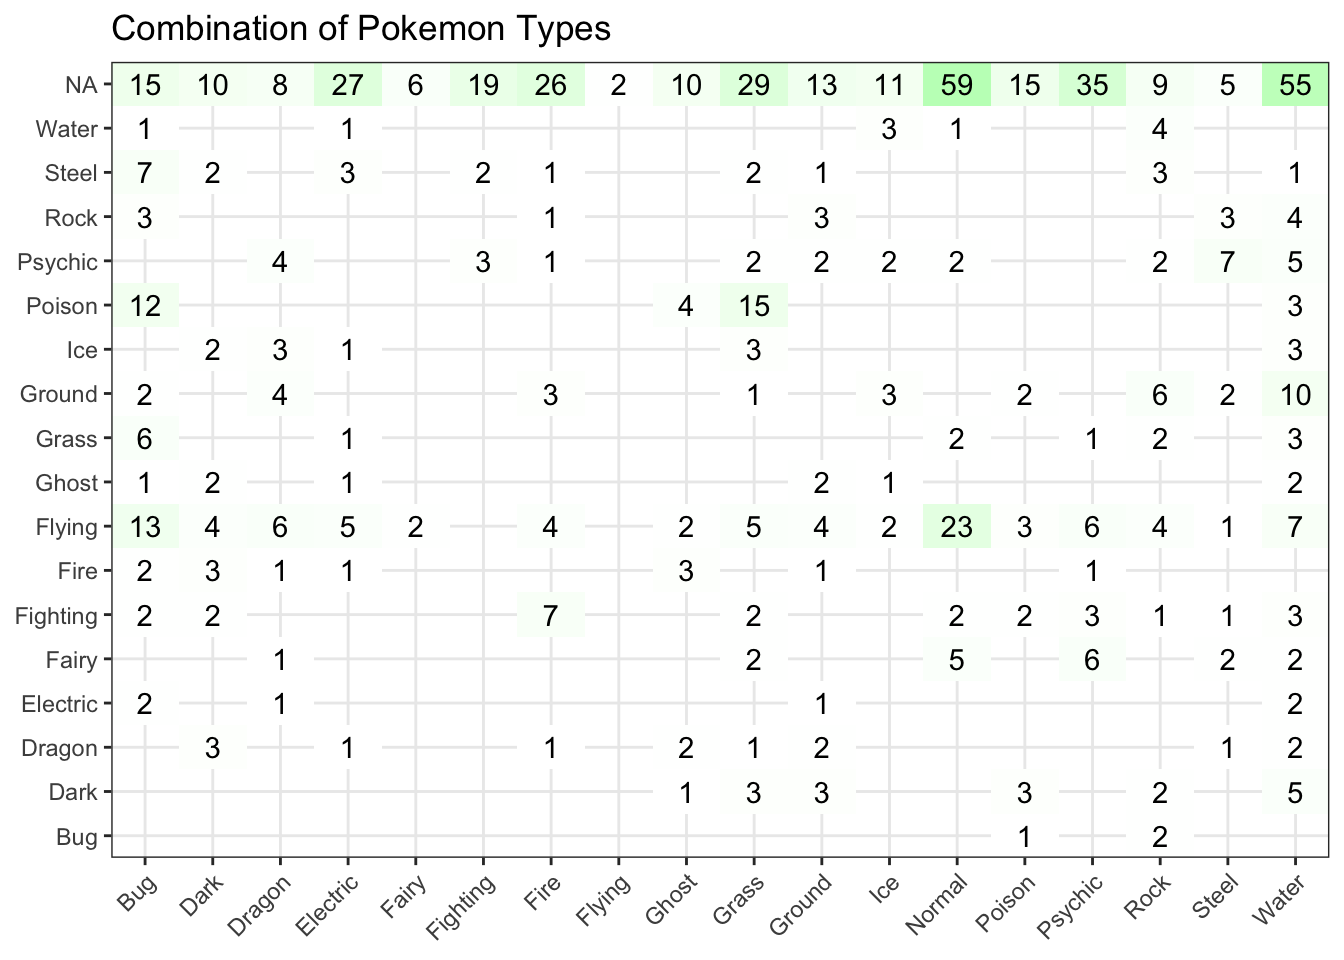
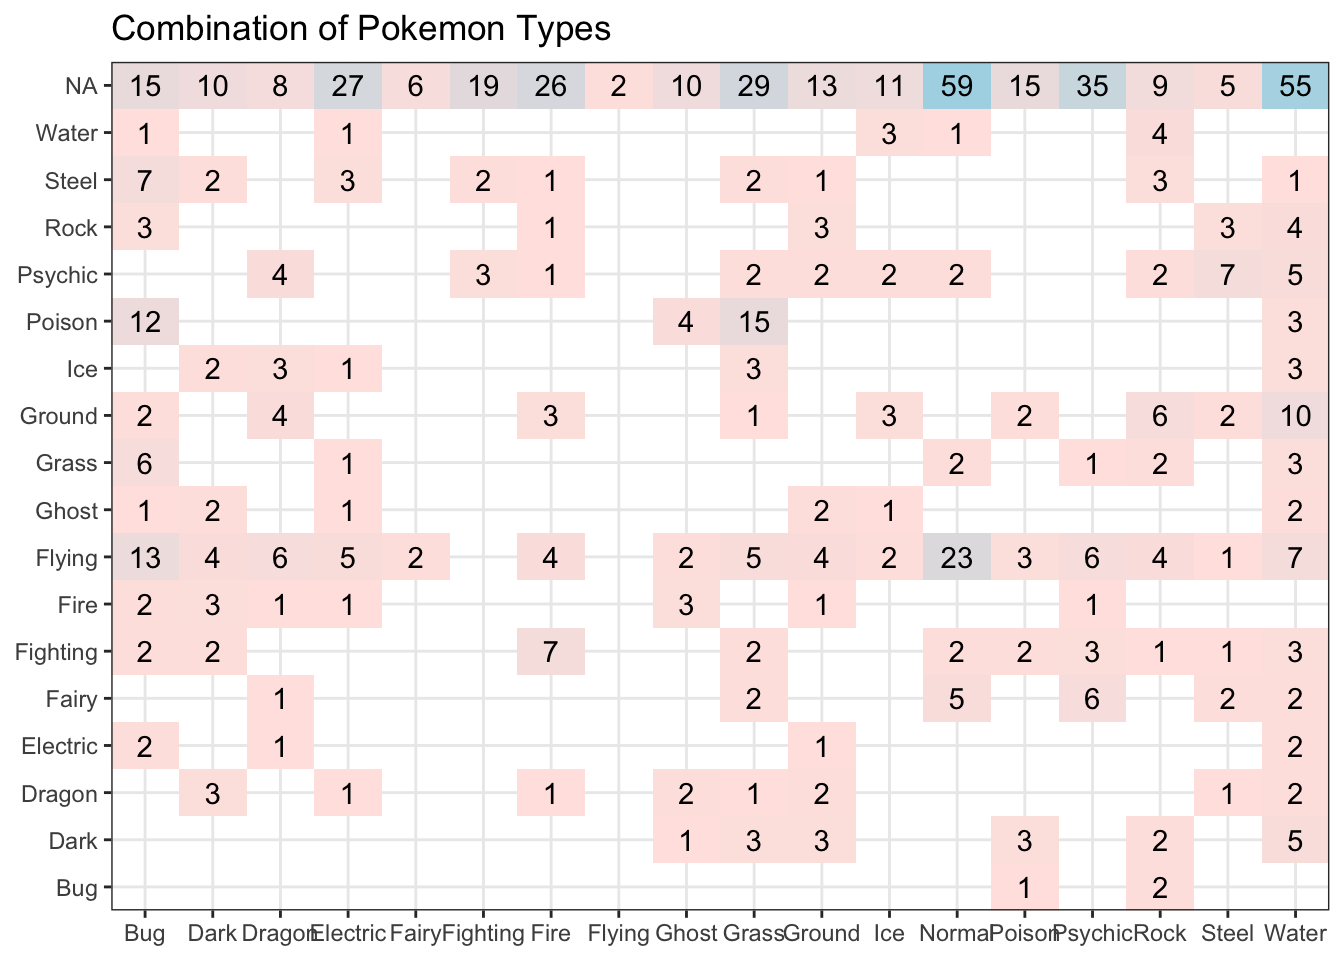
render

diff --git a/docs/project/pokemon/Pokemon.html b/docs/project/pokemon/Pokemon.html
@@ -219,8 +219,8 @@ pre > code.sourceCode > span > a:first-child::before { text-decoration: underlin
 <p>Bar chart for the count of type primary and secondary.</p>
 <div class="cell">
 <div class="sourceCode cell-code" id="cb4"><pre class="sourceCode r code-with-copy"><code class="sourceCode r"><span id="cb4-1"><a href="#cb4-1" aria-hidden="true" tabindex="-1"></a>poke_data <span class="sc">|&gt;</span></span>
-<span id="cb4-2"><a href="#cb4-2" aria-hidden="true" tabindex="-1"></a>    <span class="fu">count</span>(Type_1) <span class="sc">|&gt;</span></span>
-<span id="cb4-3"><a href="#cb4-3" aria-hidden="true" tabindex="-1"></a>    <span class="fu">ggplot</span>(<span class="fu">aes</span>(<span class="at">x=</span>Type_1, <span class="at">y=</span>n)) <span class="sc">+</span></span>
+<span id="cb4-2"><a href="#cb4-2" aria-hidden="true" tabindex="-1"></a>    <span class="fu">count</span>(Type<span class="fl">.1</span>) <span class="sc">|&gt;</span></span>
+<span id="cb4-3"><a href="#cb4-3" aria-hidden="true" tabindex="-1"></a>    <span class="fu">ggplot</span>(<span class="fu">aes</span>(<span class="at">x=</span>Type<span class="fl">.1</span>, <span class="at">y=</span>n)) <span class="sc">+</span></span>
 <span id="cb4-4"><a href="#cb4-4" aria-hidden="true" tabindex="-1"></a>    <span class="fu">geom_bar</span>(<span class="at">stat =</span> <span class="st">"identity"</span>, <span class="at">fill =</span> <span class="st">'lightblue'</span>) <span class="sc">+</span></span>
 <span id="cb4-5"><a href="#cb4-5" aria-hidden="true" tabindex="-1"></a>    <span class="fu">xlab</span>(<span class="st">"Primary Type"</span>) <span class="sc">+</span> </span>
 <span id="cb4-6"><a href="#cb4-6" aria-hidden="true" tabindex="-1"></a>    <span class="fu">ylab</span>(<span class="st">"Count"</span>) <span class="sc">+</span></span>
@@ -232,8 +232,8 @@ pre > code.sourceCode > span > a:first-child::before { text-decoration: underlin
 <p><img src="Pokemon_files/figure-html/unnamed-chunk-5-1.png" class="img-fluid" width="672"></p>
 </div>
 <div class="sourceCode cell-code" id="cb5"><pre class="sourceCode r code-with-copy"><code class="sourceCode r"><span id="cb5-1"><a href="#cb5-1" aria-hidden="true" tabindex="-1"></a>poke_data <span class="sc">|&gt;</span></span>
-<span id="cb5-2"><a href="#cb5-2" aria-hidden="true" tabindex="-1"></a>    <span class="fu">count</span>(Type_2) <span class="sc">|&gt;</span></span>
-<span id="cb5-3"><a href="#cb5-3" aria-hidden="true" tabindex="-1"></a>    <span class="fu">ggplot</span>(<span class="fu">aes</span>(<span class="at">x=</span>Type_2, <span class="at">y=</span>n)) <span class="sc">+</span></span>
+<span id="cb5-2"><a href="#cb5-2" aria-hidden="true" tabindex="-1"></a>    <span class="fu">count</span>(Type<span class="fl">.2</span>) <span class="sc">|&gt;</span></span>
+<span id="cb5-3"><a href="#cb5-3" aria-hidden="true" tabindex="-1"></a>    <span class="fu">ggplot</span>(<span class="fu">aes</span>(<span class="at">x=</span>Type<span class="fl">.2</span>, <span class="at">y=</span>n)) <span class="sc">+</span></span>
 <span id="cb5-4"><a href="#cb5-4" aria-hidden="true" tabindex="-1"></a>    <span class="fu">geom_bar</span>(<span class="at">stat =</span> <span class="st">"identity"</span>, <span class="at">fill =</span> <span class="st">'plum'</span>) <span class="sc">+</span></span>
 <span id="cb5-5"><a href="#cb5-5" aria-hidden="true" tabindex="-1"></a>    <span class="fu">xlab</span>(<span class="st">"Secondary Type"</span>) <span class="sc">+</span> </span>
 <span id="cb5-6"><a href="#cb5-6" aria-hidden="true" tabindex="-1"></a>    <span class="fu">ylab</span>(<span class="st">"Count"</span>) <span class="sc">+</span></span>
@@ -247,27 +247,26 @@ pre > code.sourceCode > span > a:first-child::before { text-decoration: underlin
 </div>
 <div class="cell">
 <div class="sourceCode cell-code" id="cb6"><pre class="sourceCode r code-with-copy"><code class="sourceCode r"><span id="cb6-1"><a href="#cb6-1" aria-hidden="true" tabindex="-1"></a>poke_data <span class="sc">|&gt;</span></span>
-<span id="cb6-2"><a href="#cb6-2" aria-hidden="true" tabindex="-1"></a>    <span class="fu">group_by</span>(Type_1, Type_2) <span class="sc">|&gt;</span></span>
+<span id="cb6-2"><a href="#cb6-2" aria-hidden="true" tabindex="-1"></a>    <span class="fu">group_by</span>(Type<span class="fl">.1</span>, Type<span class="fl">.2</span>) <span class="sc">|&gt;</span></span>
 <span id="cb6-3"><a href="#cb6-3" aria-hidden="true" tabindex="-1"></a>    <span class="fu">summarize</span>(<span class="at">count =</span> <span class="fu">n</span>()) <span class="sc">|&gt;</span></span>
-<span id="cb6-4"><a href="#cb6-4" aria-hidden="true" tabindex="-1"></a>    <span class="fu">ggplot</span>(<span class="fu">aes</span>(<span class="at">x =</span> Type_1, <span class="at">y =</span> Type_2, <span class="at">fill =</span> count))<span class="sc">+</span></span>
+<span id="cb6-4"><a href="#cb6-4" aria-hidden="true" tabindex="-1"></a>    <span class="fu">ggplot</span>(<span class="fu">aes</span>(<span class="at">x =</span> Type<span class="fl">.1</span>, <span class="at">y =</span> Type<span class="fl">.2</span>, <span class="at">fill =</span> count))<span class="sc">+</span></span>
 <span id="cb6-5"><a href="#cb6-5" aria-hidden="true" tabindex="-1"></a>    <span class="fu">geom_tile</span>(<span class="at">show.legend =</span> <span class="cn">FALSE</span>)<span class="sc">+</span></span>
 <span id="cb6-6"><a href="#cb6-6" aria-hidden="true" tabindex="-1"></a>    <span class="fu">geom_text</span>(<span class="fu">aes</span>(<span class="at">label =</span> count))<span class="sc">+</span></span>
 <span id="cb6-7"><a href="#cb6-7" aria-hidden="true" tabindex="-1"></a>    <span class="fu">labs</span>(<span class="at">x =</span> <span class="cn">NULL</span>, <span class="at">y =</span> <span class="cn">NULL</span>, <span class="at">title =</span> <span class="st">"Combination of Pokemon Types"</span>)<span class="sc">+</span></span>
-<span id="cb6-8"><a href="#cb6-8" aria-hidden="true" tabindex="-1"></a>    <span class="fu">scale_fill_gradient</span>(<span class="at">low =</span> <span class="st">'white'</span>, <span class="at">high =</span> <span class="st">'darkseagreen1'</span>)<span class="sc">+</span></span>
+<span id="cb6-8"><a href="#cb6-8" aria-hidden="true" tabindex="-1"></a>    <span class="fu">scale_fill_gradient</span>(<span class="at">low =</span> <span class="st">'mistyrose'</span>, <span class="at">high =</span> <span class="st">'lightblue'</span>)<span class="sc">+</span></span>
 <span id="cb6-9"><a href="#cb6-9" aria-hidden="true" tabindex="-1"></a>    <span class="fu">scale_y_discrete</span>(<span class="at">expand =</span> <span class="fu">c</span>(<span class="dv">0</span>,<span class="dv">0</span>))<span class="sc">+</span></span>
 <span id="cb6-10"><a href="#cb6-10" aria-hidden="true" tabindex="-1"></a>    <span class="fu">scale_x_discrete</span>(<span class="at">expand =</span> <span class="fu">c</span>(<span class="dv">0</span>,<span class="dv">0</span>))<span class="sc">+</span></span>
-<span id="cb6-11"><a href="#cb6-11" aria-hidden="true" tabindex="-1"></a>    <span class="fu">theme_bw</span>() <span class="sc">+</span></span>
-<span id="cb6-12"><a href="#cb6-12" aria-hidden="true" tabindex="-1"></a>    <span class="fu">theme</span>(<span class="at">axis.text.x=</span><span class="fu">element_text</span>(<span class="at">angle=</span><span class="dv">45</span>, <span class="at">hjust=</span><span class="dv">1</span>))</span></code><button title="Copy to Clipboard" class="code-copy-button"><i class="bi"></i></button></pre></div>
+<span id="cb6-11"><a href="#cb6-11" aria-hidden="true" tabindex="-1"></a>    <span class="fu">theme_bw</span>()</span></code><button title="Copy to Clipboard" class="code-copy-button"><i class="bi"></i></button></pre></div>
 <div class="cell-output-display">
 <p><img src="Pokemon_files/figure-html/unnamed-chunk-6-1.png" class="img-fluid" width="672"></p>
 </div>
 </div>
 <p>Box plot of the Primary Type showing the types with most Total points to lowest</p>
 <div class="cell">
-<div class="sourceCode cell-code" id="cb7"><pre class="sourceCode r code-with-copy"><code class="sourceCode r"><span id="cb7-1"><a href="#cb7-1" aria-hidden="true" tabindex="-1"></a><span class="fu">ggplot</span>(poke_data <span class="sc">%&gt;%</span> <span class="fu">group_by</span>(Type_1) <span class="sc">%&gt;%</span> <span class="fu">mutate</span>(<span class="at">med=</span><span class="fu">median</span>(Total)),</span>
-<span id="cb7-2"><a href="#cb7-2" aria-hidden="true" tabindex="-1"></a>       <span class="fu">aes</span>(<span class="at">x=</span><span class="fu">reorder</span>(Type_1, Total, <span class="at">FUN=</span>median), <span class="at">y=</span>Total)) <span class="sc">+</span></span>
+<div class="sourceCode cell-code" id="cb7"><pre class="sourceCode r code-with-copy"><code class="sourceCode r"><span id="cb7-1"><a href="#cb7-1" aria-hidden="true" tabindex="-1"></a><span class="fu">ggplot</span>(poke_data <span class="sc">|&gt;</span> <span class="fu">group_by</span>(Type<span class="fl">.1</span>) <span class="sc">|&gt;</span> <span class="fu">mutate</span>(<span class="at">med=</span><span class="fu">median</span>(Total)),</span>
+<span id="cb7-2"><a href="#cb7-2" aria-hidden="true" tabindex="-1"></a>       <span class="fu">aes</span>(<span class="at">x=</span><span class="fu">reorder</span>(Type<span class="fl">.1</span>, Total, <span class="at">FUN=</span>median), <span class="at">y=</span>Total)) <span class="sc">+</span></span>
 <span id="cb7-3"><a href="#cb7-3" aria-hidden="true" tabindex="-1"></a>    <span class="fu">geom_boxplot</span>(<span class="fu">aes</span>(<span class="at">fill=</span>med)) <span class="sc">+</span></span>
-<span id="cb7-4"><a href="#cb7-4" aria-hidden="true" tabindex="-1"></a>    <span class="fu">scale_fill_gradient</span>(<span class="at">low=</span><span class="st">"mistyrose"</span>, <span class="at">high=</span><span class="st">"lightblue"</span>) <span class="sc">+</span></span>
+<span id="cb7-4"><a href="#cb7-4" aria-hidden="true" tabindex="-1"></a>    <span class="fu">scale_fill_gradient</span>(<span class="at">low=</span><span class="st">"mistyrose"</span>, <span class="at">high=</span><span class="st">"plum"</span>) <span class="sc">+</span></span>
 <span id="cb7-5"><a href="#cb7-5" aria-hidden="true" tabindex="-1"></a>    <span class="fu">coord_flip</span>() <span class="sc">+</span></span>
 <span id="cb7-6"><a href="#cb7-6" aria-hidden="true" tabindex="-1"></a>    <span class="fu">labs</span>(<span class="at">x=</span><span class="st">"Type 1"</span>,</span>
 <span id="cb7-7"><a href="#cb7-7" aria-hidden="true" tabindex="-1"></a>         <span class="at">title=</span><span class="st">"Boxplot of Total"</span>) <span class="sc">+</span></span>
@@ -275,6 +274,73 @@ pre > code.sourceCode > span > a:first-child::before { text-decoration: underlin
 <span id="cb7-9"><a href="#cb7-9" aria-hidden="true" tabindex="-1"></a>    <span class="fu">theme</span>(<span class="at">legend.position=</span><span class="st">"none"</span>)</span></code><button title="Copy to Clipboard" class="code-copy-button"><i class="bi"></i></button></pre></div>
 <div class="cell-output-display">
 <p><img src="Pokemon_files/figure-html/unnamed-chunk-7-1.png" class="img-fluid" width="672"></p>
+</div>
+</div>
+<div class="cell">
+<div class="sourceCode cell-code" id="cb8"><pre class="sourceCode r code-with-copy"><code class="sourceCode r"><span id="cb8-1"><a href="#cb8-1" aria-hidden="true" tabindex="-1"></a>poke_data <span class="sc">|&gt;</span></span>
+<span id="cb8-2"><a href="#cb8-2" aria-hidden="true" tabindex="-1"></a>  <span class="fu">group_by</span>(Generation) <span class="sc">|&gt;</span></span>
+<span id="cb8-3"><a href="#cb8-3" aria-hidden="true" tabindex="-1"></a>  <span class="fu">summarize</span>(<span class="at">Total=</span><span class="fu">mean</span>(Total)) <span class="sc">|&gt;</span></span>
+<span id="cb8-4"><a href="#cb8-4" aria-hidden="true" tabindex="-1"></a>  <span class="fu">ggplot</span>(<span class="fu">aes</span>(<span class="at">x=</span>Generation, <span class="at">y=</span>Total, <span class="at">group=</span><span class="dv">1</span>)) <span class="sc">+</span></span>
+<span id="cb8-5"><a href="#cb8-5" aria-hidden="true" tabindex="-1"></a>  <span class="fu">geom_line</span>(<span class="at">colour=</span><span class="st">"plum"</span>) <span class="sc">+</span></span>
+<span id="cb8-6"><a href="#cb8-6" aria-hidden="true" tabindex="-1"></a>  <span class="fu">geom_point</span>() <span class="sc">+</span></span>
+<span id="cb8-7"><a href="#cb8-7" aria-hidden="true" tabindex="-1"></a>  <span class="fu">labs</span>(<span class="at">y=</span><span class="st">"Average Total"</span>,</span>
+<span id="cb8-8"><a href="#cb8-8" aria-hidden="true" tabindex="-1"></a>       <span class="at">title=</span><span class="st">"Average Total for each generation"</span>) <span class="sc">+</span></span>
+<span id="cb8-9"><a href="#cb8-9" aria-hidden="true" tabindex="-1"></a>  <span class="fu">theme_bw</span>() </span></code><button title="Copy to Clipboard" class="code-copy-button"><i class="bi"></i></button></pre></div>
+<div class="cell-output-display">
+<p><img src="Pokemon_files/figure-html/unnamed-chunk-8-1.png" class="img-fluid" width="672"></p>
+</div>
+</div>
+<div class="cell">
+<div class="sourceCode cell-code" id="cb9"><pre class="sourceCode r code-with-copy"><code class="sourceCode r"><span id="cb9-1"><a href="#cb9-1" aria-hidden="true" tabindex="-1"></a>poke_data <span class="sc">|&gt;</span></span>
+<span id="cb9-2"><a href="#cb9-2" aria-hidden="true" tabindex="-1"></a>    <span class="fu">group_by</span>(Generation) <span class="sc">|&gt;</span></span>
+<span id="cb9-3"><a href="#cb9-3" aria-hidden="true" tabindex="-1"></a>    <span class="fu">summarize</span>(<span class="at">HP=</span><span class="fu">mean</span>(HP),</span>
+<span id="cb9-4"><a href="#cb9-4" aria-hidden="true" tabindex="-1"></a>              <span class="at">Attack=</span><span class="fu">mean</span>(Attack),</span>
+<span id="cb9-5"><a href="#cb9-5" aria-hidden="true" tabindex="-1"></a>              <span class="at">Sp.Atk=</span><span class="fu">mean</span>(Sp.Atk),</span>
+<span id="cb9-6"><a href="#cb9-6" aria-hidden="true" tabindex="-1"></a>              <span class="at">Defense=</span><span class="fu">mean</span>(Defense),</span>
+<span id="cb9-7"><a href="#cb9-7" aria-hidden="true" tabindex="-1"></a>              <span class="at">Sp.Def=</span><span class="fu">mean</span>(Sp.Def),</span>
+<span id="cb9-8"><a href="#cb9-8" aria-hidden="true" tabindex="-1"></a>              <span class="at">Speed=</span><span class="fu">mean</span>(Speed)) <span class="sc">|&gt;</span></span>
+<span id="cb9-9"><a href="#cb9-9" aria-hidden="true" tabindex="-1"></a>    <span class="fu">gather</span>(Stats, value, <span class="dv">2</span><span class="sc">:</span><span class="dv">7</span>) <span class="sc">|&gt;</span></span>
+<span id="cb9-10"><a href="#cb9-10" aria-hidden="true" tabindex="-1"></a>    <span class="fu">ggplot</span>(<span class="fu">aes</span>(<span class="at">x=</span>Generation, <span class="at">y=</span>value, <span class="at">group=</span><span class="dv">1</span>)) <span class="sc">+</span></span>
+<span id="cb9-11"><a href="#cb9-11" aria-hidden="true" tabindex="-1"></a>    <span class="fu">geom_line</span>(<span class="at">colour=</span><span class="st">"plum"</span>) <span class="sc">+</span></span>
+<span id="cb9-12"><a href="#cb9-12" aria-hidden="true" tabindex="-1"></a>    <span class="fu">geom_point</span>() <span class="sc">+</span></span>
+<span id="cb9-13"><a href="#cb9-13" aria-hidden="true" tabindex="-1"></a>    <span class="fu">facet_wrap</span>(<span class="sc">~</span>Stats) <span class="sc">+</span></span>
+<span id="cb9-14"><a href="#cb9-14" aria-hidden="true" tabindex="-1"></a>    <span class="fu">labs</span>(<span class="at">y=</span><span class="st">"Average Stats"</span>) <span class="sc">+</span></span>
+<span id="cb9-15"><a href="#cb9-15" aria-hidden="true" tabindex="-1"></a>    <span class="fu">theme_bw</span>() </span></code><button title="Copy to Clipboard" class="code-copy-button"><i class="bi"></i></button></pre></div>
+<div class="cell-output-display">
+<p><img src="Pokemon_files/figure-html/unnamed-chunk-9-1.png" class="img-fluid" width="672"></p>
+</div>
+</div>
+<div class="cell">
+<div class="sourceCode cell-code" id="cb10"><pre class="sourceCode r code-with-copy"><code class="sourceCode r"><span id="cb10-1"><a href="#cb10-1" aria-hidden="true" tabindex="-1"></a>poke_data <span class="sc">|&gt;</span></span>
+<span id="cb10-2"><a href="#cb10-2" aria-hidden="true" tabindex="-1"></a>  <span class="fu">filter</span>(Legendary<span class="sc">==</span><span class="st">"FALSE"</span>) <span class="sc">|&gt;</span></span>
+<span id="cb10-3"><a href="#cb10-3" aria-hidden="true" tabindex="-1"></a>  <span class="fu">select</span>(Name, Total) <span class="sc">|&gt;</span></span>
+<span id="cb10-4"><a href="#cb10-4" aria-hidden="true" tabindex="-1"></a>  <span class="fu">arrange</span>(<span class="fu">desc</span>(Total)) <span class="sc">|&gt;</span></span>
+<span id="cb10-5"><a href="#cb10-5" aria-hidden="true" tabindex="-1"></a>  <span class="fu">slice</span>(<span class="dv">1</span><span class="sc">:</span><span class="dv">20</span>) <span class="sc">|&gt;</span></span>
+<span id="cb10-6"><a href="#cb10-6" aria-hidden="true" tabindex="-1"></a>  <span class="fu">ggplot</span>(<span class="fu">aes</span>(<span class="at">x=</span><span class="fu">reorder</span>(Name, Total), <span class="at">y=</span>Total)) <span class="sc">+</span></span>
+<span id="cb10-7"><a href="#cb10-7" aria-hidden="true" tabindex="-1"></a>  <span class="fu">geom_bar</span>(<span class="at">stat=</span><span class="st">"identity"</span>, <span class="fu">aes</span>(<span class="at">fill=</span>Total), <span class="at">colour=</span><span class="st">"black"</span>, <span class="at">show.legend=</span><span class="cn">FALSE</span>) <span class="sc">+</span></span>
+<span id="cb10-8"><a href="#cb10-8" aria-hidden="true" tabindex="-1"></a>  <span class="fu">scale_fill_gradient</span>(<span class="at">low=</span><span class="st">"mistyrose"</span>, <span class="at">high=</span><span class="st">"plum"</span>) <span class="sc">+</span></span>
+<span id="cb10-9"><a href="#cb10-9" aria-hidden="true" tabindex="-1"></a>  <span class="fu">geom_label</span>(<span class="fu">aes</span>(<span class="at">label=</span>Total)) <span class="sc">+</span></span>
+<span id="cb10-10"><a href="#cb10-10" aria-hidden="true" tabindex="-1"></a>  <span class="fu">coord_flip</span>() <span class="sc">+</span></span>
+<span id="cb10-11"><a href="#cb10-11" aria-hidden="true" tabindex="-1"></a>  <span class="fu">labs</span>(<span class="at">x=</span><span class="st">"Name"</span>, <span class="at">title=</span><span class="st">"Top 20 Total Non Legendary Pokémon"</span>) <span class="sc">+</span></span>
+<span id="cb10-12"><a href="#cb10-12" aria-hidden="true" tabindex="-1"></a>  <span class="fu">theme_bw</span>()</span></code><button title="Copy to Clipboard" class="code-copy-button"><i class="bi"></i></button></pre></div>
+<div class="cell-output-display">
+<p><img src="Pokemon_files/figure-html/unnamed-chunk-10-1.png" class="img-fluid" width="672"></p>
+</div>
+</div>
+<div class="cell">
+<div class="sourceCode cell-code" id="cb11"><pre class="sourceCode r code-with-copy"><code class="sourceCode r"><span id="cb11-1"><a href="#cb11-1" aria-hidden="true" tabindex="-1"></a>poke_data <span class="sc">|&gt;</span></span>
+<span id="cb11-2"><a href="#cb11-2" aria-hidden="true" tabindex="-1"></a>  <span class="fu">select</span>(Name, Total) <span class="sc">|&gt;</span></span>
+<span id="cb11-3"><a href="#cb11-3" aria-hidden="true" tabindex="-1"></a>  <span class="fu">arrange</span>(<span class="fu">desc</span>(Total)) <span class="sc">|&gt;</span></span>
+<span id="cb11-4"><a href="#cb11-4" aria-hidden="true" tabindex="-1"></a>  <span class="fu">slice</span>(<span class="dv">1</span><span class="sc">:</span><span class="dv">20</span>) <span class="sc">|&gt;</span></span>
+<span id="cb11-5"><a href="#cb11-5" aria-hidden="true" tabindex="-1"></a>  <span class="fu">ggplot</span>(<span class="fu">aes</span>(<span class="at">x=</span><span class="fu">reorder</span>(Name, Total), <span class="at">y=</span>Total)) <span class="sc">+</span></span>
+<span id="cb11-6"><a href="#cb11-6" aria-hidden="true" tabindex="-1"></a>  <span class="fu">geom_bar</span>(<span class="at">stat=</span><span class="st">"identity"</span>, <span class="fu">aes</span>(<span class="at">fill=</span>Total), <span class="at">colour=</span><span class="st">"black"</span>, <span class="at">show.legend=</span><span class="cn">FALSE</span>) <span class="sc">+</span></span>
+<span id="cb11-7"><a href="#cb11-7" aria-hidden="true" tabindex="-1"></a>  <span class="fu">scale_fill_gradient</span>(<span class="at">low=</span><span class="st">"mistyrose"</span>, <span class="at">high=</span><span class="st">"plum"</span>) <span class="sc">+</span></span>
+<span id="cb11-8"><a href="#cb11-8" aria-hidden="true" tabindex="-1"></a>  <span class="fu">geom_label</span>(<span class="fu">aes</span>(<span class="at">label=</span>Total)) <span class="sc">+</span></span>
+<span id="cb11-9"><a href="#cb11-9" aria-hidden="true" tabindex="-1"></a>  <span class="fu">coord_flip</span>() <span class="sc">+</span></span>
+<span id="cb11-10"><a href="#cb11-10" aria-hidden="true" tabindex="-1"></a>  <span class="fu">labs</span>(<span class="at">x=</span><span class="st">"Name"</span>, <span class="at">title=</span><span class="st">"Top 20 Total Pokémon"</span>) <span class="sc">+</span></span>
+<span id="cb11-11"><a href="#cb11-11" aria-hidden="true" tabindex="-1"></a>  <span class="fu">theme_bw</span>() </span></code><button title="Copy to Clipboard" class="code-copy-button"><i class="bi"></i></button></pre></div>
+<div class="cell-output-display">
+<p><img src="Pokemon_files/figure-html/unnamed-chunk-11-1.png" class="img-fluid" width="672"></p>
 </div>
 </div>
 

diff --git a/docs/projects.html b/docs/projects.html
@@ -196,7 +196,7 @@ ul.task-list li input[type="checkbox"] {
 
 <div class="quarto-listing quarto-listing-container-default" id="listing-pokemon_analysis">
 <div class="list quarto-listing-default">
-<div class="quarto-post image-right" data-index="0" data-categories="R,Data set" data-listing-date-sort="1706601600000" data-listing-file-modified-sort="1706918333435" data-listing-date-modified-sort="NaN" data-listing-reading-time-sort="3">
+<div class="quarto-post image-right" data-index="0" data-categories="R,Data set" data-listing-date-sort="1706601600000" data-listing-file-modified-sort="1707510404751" data-listing-date-modified-sort="NaN" data-listing-reading-time-sort="5">
 <div class="thumbnail">
 <p><a href="./project/pokemon/Pokemon.html"> <p class="card-img-top"><img src="project/pokemon/logo.jpeg"  class="thumbnail-image card-img"/></p> </a></p>
 </div>
